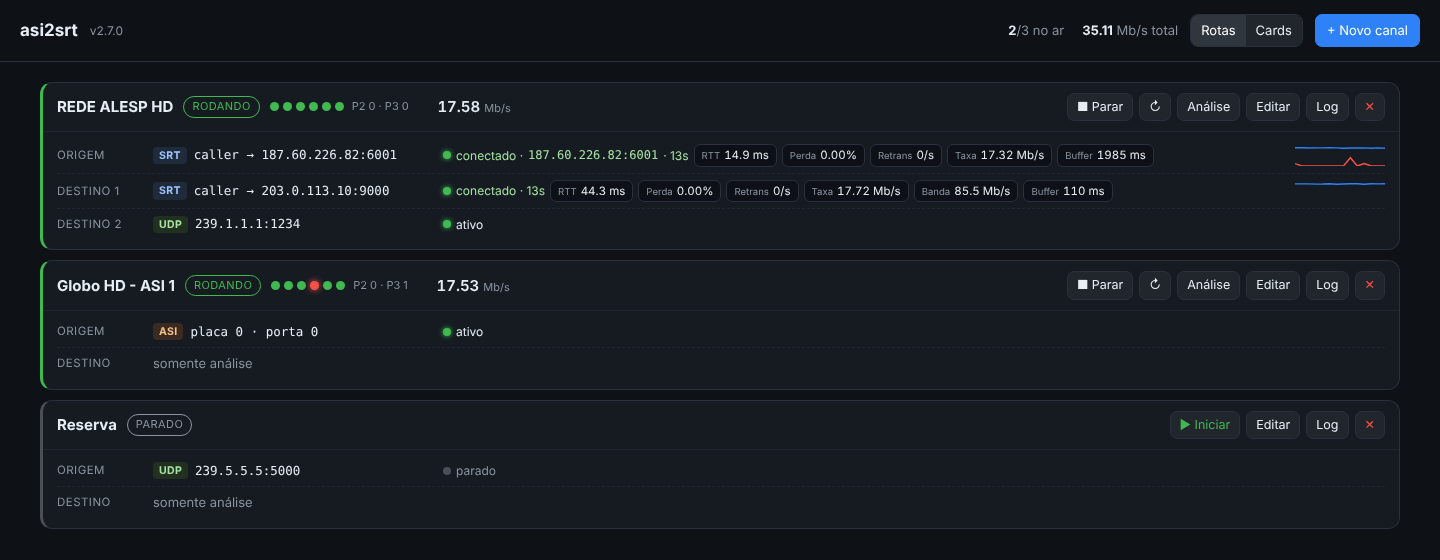
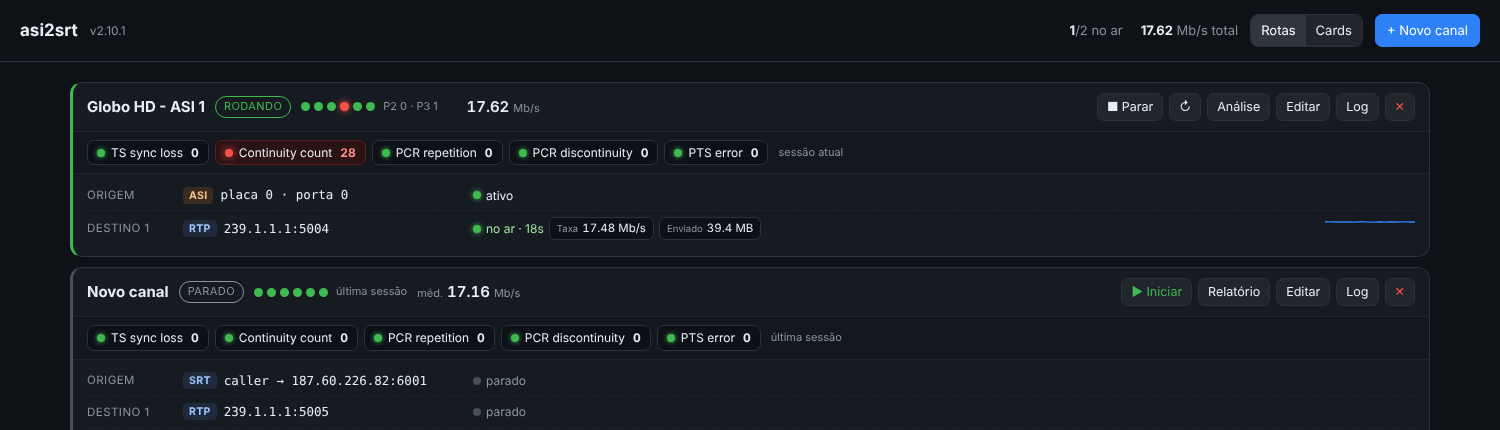
Rotas: linha de indicadores TS sync loss, CC, PCR repetition/discontinuity e PTS
Mostra contador e luz (verde/amarelo/vermelho) da sessão atual ou, com o canal parado,
da última sessão salva.

Claude-Session: https://claude.ai/code/session_011TCfVYu9uCxCnx7Wazy44h

diff --git a/asi2srt.py b/asi2srt.py
@@ -46,7 +46,7 @@ import urllib.request
 from http.server import BaseHTTPRequestHandler, ThreadingHTTPServer
 from urllib.parse import parse_qs, urlparse
 
-__version__ = "2.10.0"
+__version__ = "2.10.1"
 
 try:
     import yaml  # opcional: sem PyYAML a configuração é salva em JSON
@@ -2543,6 +2543,14 @@ color:#ffd8d6;padding:10px 16px;border-radius:9px;z-index:20;max-width:90vw}
 .dots small{color:var(--mut);font-size:11px;margin-left:4px}
 .rh .acs{margin-left:auto;display:flex;gap:6px;flex-wrap:wrap}.rh .acs button{padding:4px 9px;font-size:12.5px}
 .rl{padding:6px 14px 10px}
+.ind{display:flex;gap:6px;flex-wrap:wrap;align-items:center;padding:8px 14px;border-bottom:1px solid #20262f;background:#13181f}
+.ic{display:inline-flex;align-items:center;gap:6px;font-size:12px;background:var(--in);border:1px solid var(--line);border-radius:7px;padding:3px 9px;white-space:nowrap}
+.ic i{width:8px;height:8px;border-radius:50%;background:var(--ok);box-shadow:0 0 5px var(--ok)}
+.ic b{font-variant-numeric:tabular-nums;margin-left:2px}
+.ic.w{border-color:#5c4a12}.ic.w i{background:var(--warn);box-shadow:0 0 5px var(--warn)}.ic.w b{color:#f2cc60}
+.ic.e{border-color:#5c1f22;background:#2a1215}.ic.e i{background:var(--err);box-shadow:0 0 8px var(--err)}.ic.e b{color:#ff8f8a}
+.ic.x{opacity:.5}.ic.x i{background:#484f58;box-shadow:none}
+.ind .sub{color:var(--mut);font-size:11px;margin-left:4px}
 .no{display:grid;grid-template-columns:86px minmax(170px,280px) 1fr auto;gap:10px;align-items:center;padding:6px 0;border-bottom:1px dashed #20262f;font-size:13px}
 .no:last-child{border-bottom:0}.no .pp{color:var(--mut);font-size:11.5px;text-transform:uppercase;letter-spacing:.04em}
 .no .ed{display:flex;align-items:center;gap:7px;min-width:0}.no .ed code{font-family:ui-monospace,monospace;font-size:12.5px;overflow:hidden;text-overflow:ellipsis;white-space:nowrap}
@@ -2693,6 +2701,12 @@ function no(rot,x,e,ativo,ps){const tp=TIPO_TXT[x.tipo]||x.tipo,cl=x.tipo==='udp
  else st=`<span class="st ${ativo?'ativo':'parado'}"><i></i>${ativo?'ativo':'parado'}</span>`;
  return`<div class="no"><span class="pp">${rot}</span><span class="ed"><span class="tp ${cl}">${tp}</span><code title="${esc(endTxt(x))}">${esc(endTxt(x))}</code></span>
  <span class="chips">${st}${e?chipsSRT(e):''}${ps&&ps.estado==='rodando'?`${!e&&ps.info&&ps.info.taxa_kbps?`<span class="chip"><small>Taxa</small>${(ps.info.taxa_kbps/1000).toFixed(2)} Mb/s</span>`:''}<span class="chip"><small>Enviado</small>${fmtB(ps.enviado_conexao_bytes)}</span>${ps.info&&ps.info.velocidade?`<span class="chip"><small>Veloc.</small>${esc(ps.info.velocidade)}</span>`:''}${ps.reinicios?`<span class="chip w" title="vezes que a saída caiu e reconectou"><small>Quedas</small>${ps.reinicios}</span>`:''}`:''}${falha}</span>${e&&e.estado==='conectado'?mspark(e.hist):ps&&ps.estado==='rodando'&&ps.hist&&ps.hist.length>1?mspark(ps.hist.map(v=>[v,0,0])):'<span></span>'}</div>`}
+const IND=[['sync_loss','TS sync loss'],['cc','Continuity count'],['pcr_rep','PCR repetition'],['pcr_disc','PCR discontinuity'],['pts','PTS error']];
+function indicadores(t,r){const cont=t?t.contadores:r?r.contadores:null;if(!cont)return'';const rec=t?t.recentes||[]:[];
+ const desc=Object.fromEntries(TRI.map(x=>[x[0],x[2]+' '+x[4]]));
+ return`<div class="ind">${IND.map(([k,n])=>{const v=cont[k]||0,cl=rec.includes(k)?'e':v?'w':(t&&!t.sinal)?'x':'';
+  return`<span class="ic ${cl}" title="${esc(desc[k]||n)}"><i></i>${n}<b>${v.toLocaleString('pt-BR')}</b></span>`}).join('')}
+ <span class="sub">${t?(t.sinal?'sessão atual':'sem sinal'):'última sessão'}</span></div>`}
 function linha(c){const s=c.status||{},ativo=s.estado!=='parado',srt=s.srt||{},t=s.tr101290,r=c.ultimo_relatorio;
  const dots=t?`<span class="dots" title="TR 101 290 · prioridade 1">${TR.map(([k,n,d])=>{const v=t.contadores[k]||0;return`<i class="${t.recentes.includes(k)?'e':v?'w':t.sinal?'':'x'}" title="${esc(n)}: ${v}"></i>`}).join('')}
   <small>${(()=>{const p2=TRI.filter(x=>x[1]===2).reduce((a,x)=>a+(t.contadores[x[0]]||0),0),p3=TRI.filter(x=>x[1]===3).reduce((a,x)=>a+(t.contadores[x[0]]||0),0);return`P2 ${p2} · P3 ${p3}`})()}</small></span>`
@@ -2703,6 +2717,7 @@ function linha(c){const s=c.status||{},ativo=s.estado!=='parado',srt=s.srt||{},t
  const destinos=c.saidas.length?c.saidas.map((x,i)=>no('Destino '+(i+1),x,srt['SRTOUT'+i],ativo,(s.saidas||[])[i])).join(''):'<div class="no"><span class="pp">Destino</span><span class="ed" style="color:var(--mut)">somente análise</span><span></span><span></span></div>';
  return`<div class="rota e-${esc(s.estado)}"><div class="rh"><b class="rn" data-ana="${c.id}">${esc(c.nome)}</b><span class="pill ${esc(s.estado)}">${esc((s.estado||'').replace('_',' '))}</span>
  ${dots}<span class="rb">${ativo?`${mb(s.bitrate_bps||0)} <small>Mb/s</small>`:r?`<small>méd.</small> ${mb(r.taxa.media)} <small>Mb/s</small>`:''}</span><span class="acs">${acs}</span></div>
+ ${indicadores(ativo?t:null,ativo?null:r)}
  <div class="rl">${no('Origem',c.entrada,srt.SRTIN,ativo)}${destinos}
  ${!ativo&&r?`<div class="rrel">Última análise ${esc(MOTIVO[r.motivo]||r.motivo)}: <b>${fmtDH(r.inicio)} → ${fmtH(r.fim)}</b> · ${dur(r.duracao_s)} · ${r.n_servicos} serviço(s)${r.servicos.length?': '+esc(r.servicos.join(', ')):''}</div>`:''}
  ${ativo&&s.estado!=='rodando'&&s.ultima_msg?`<div class="rrel" style="color:var(--warn)">${esc(s.ultima_msg)}</div>`:''}</div></div>`}
